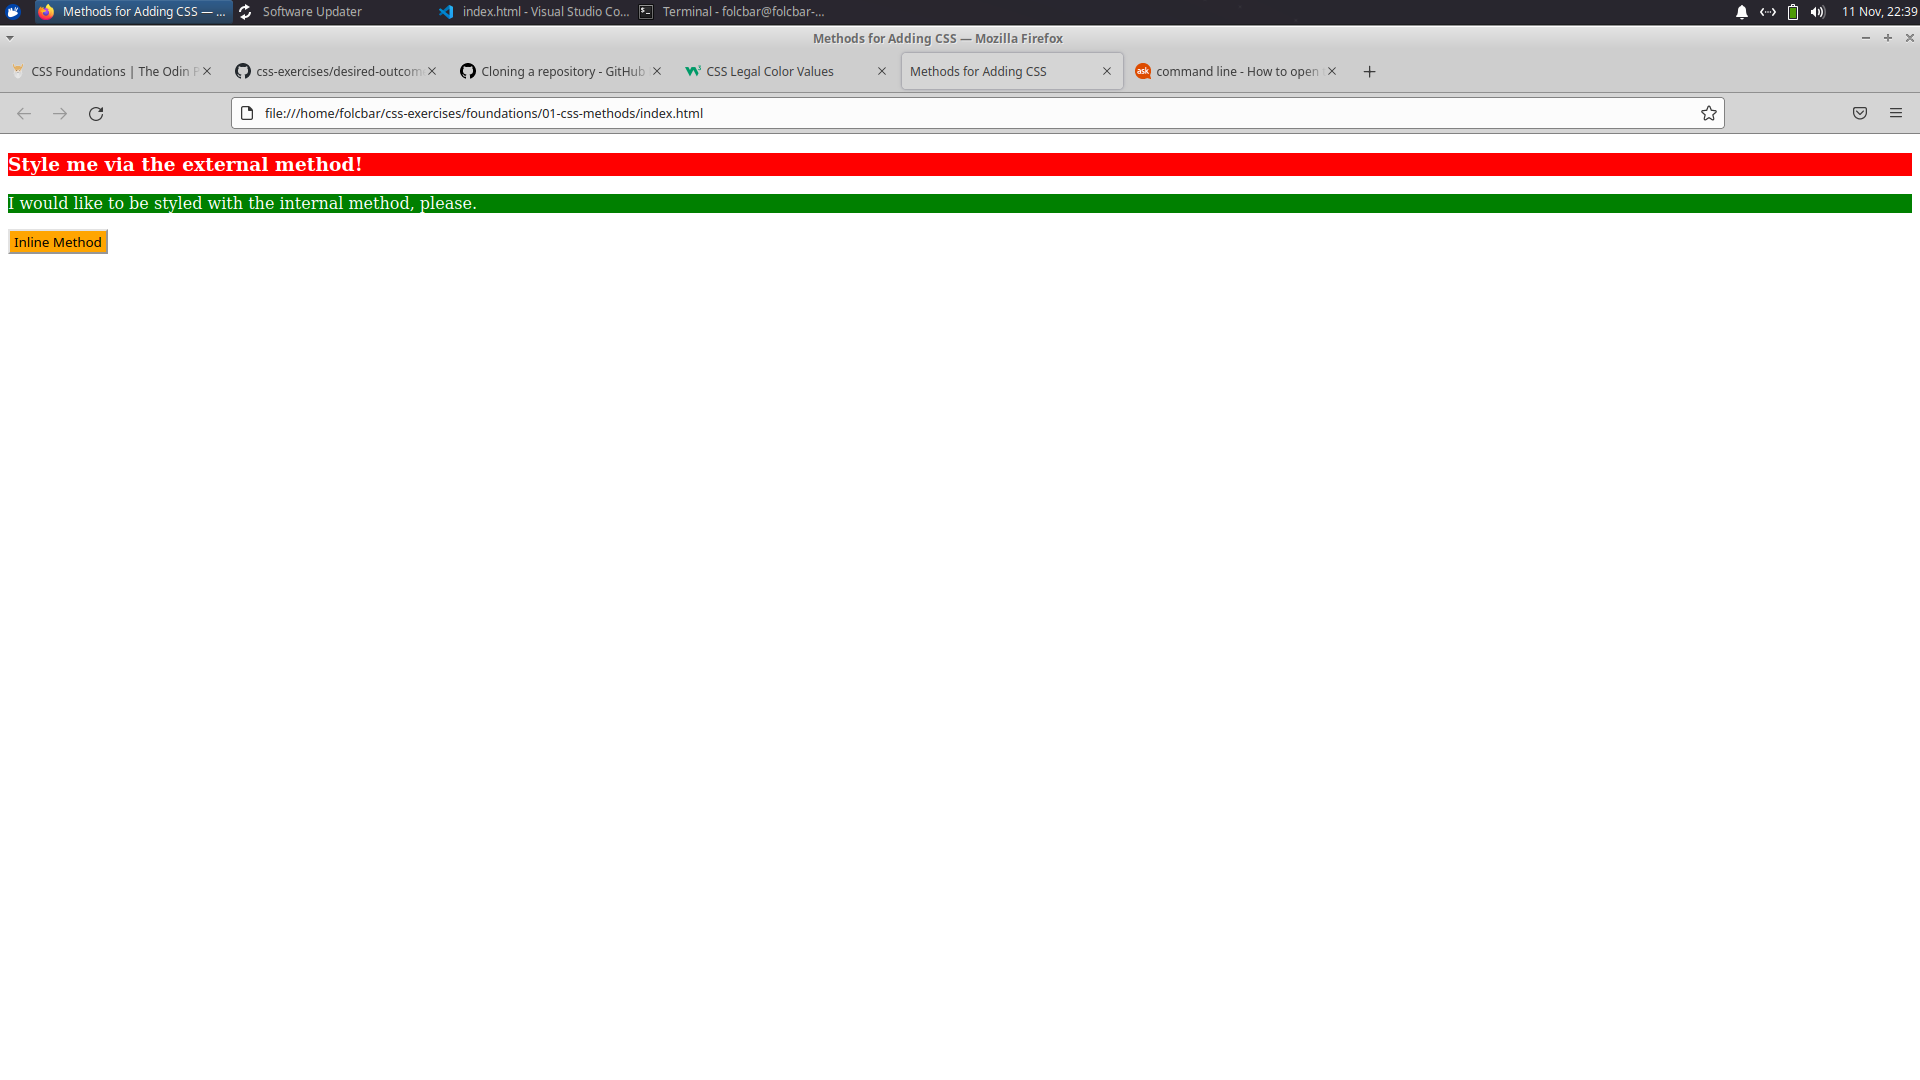
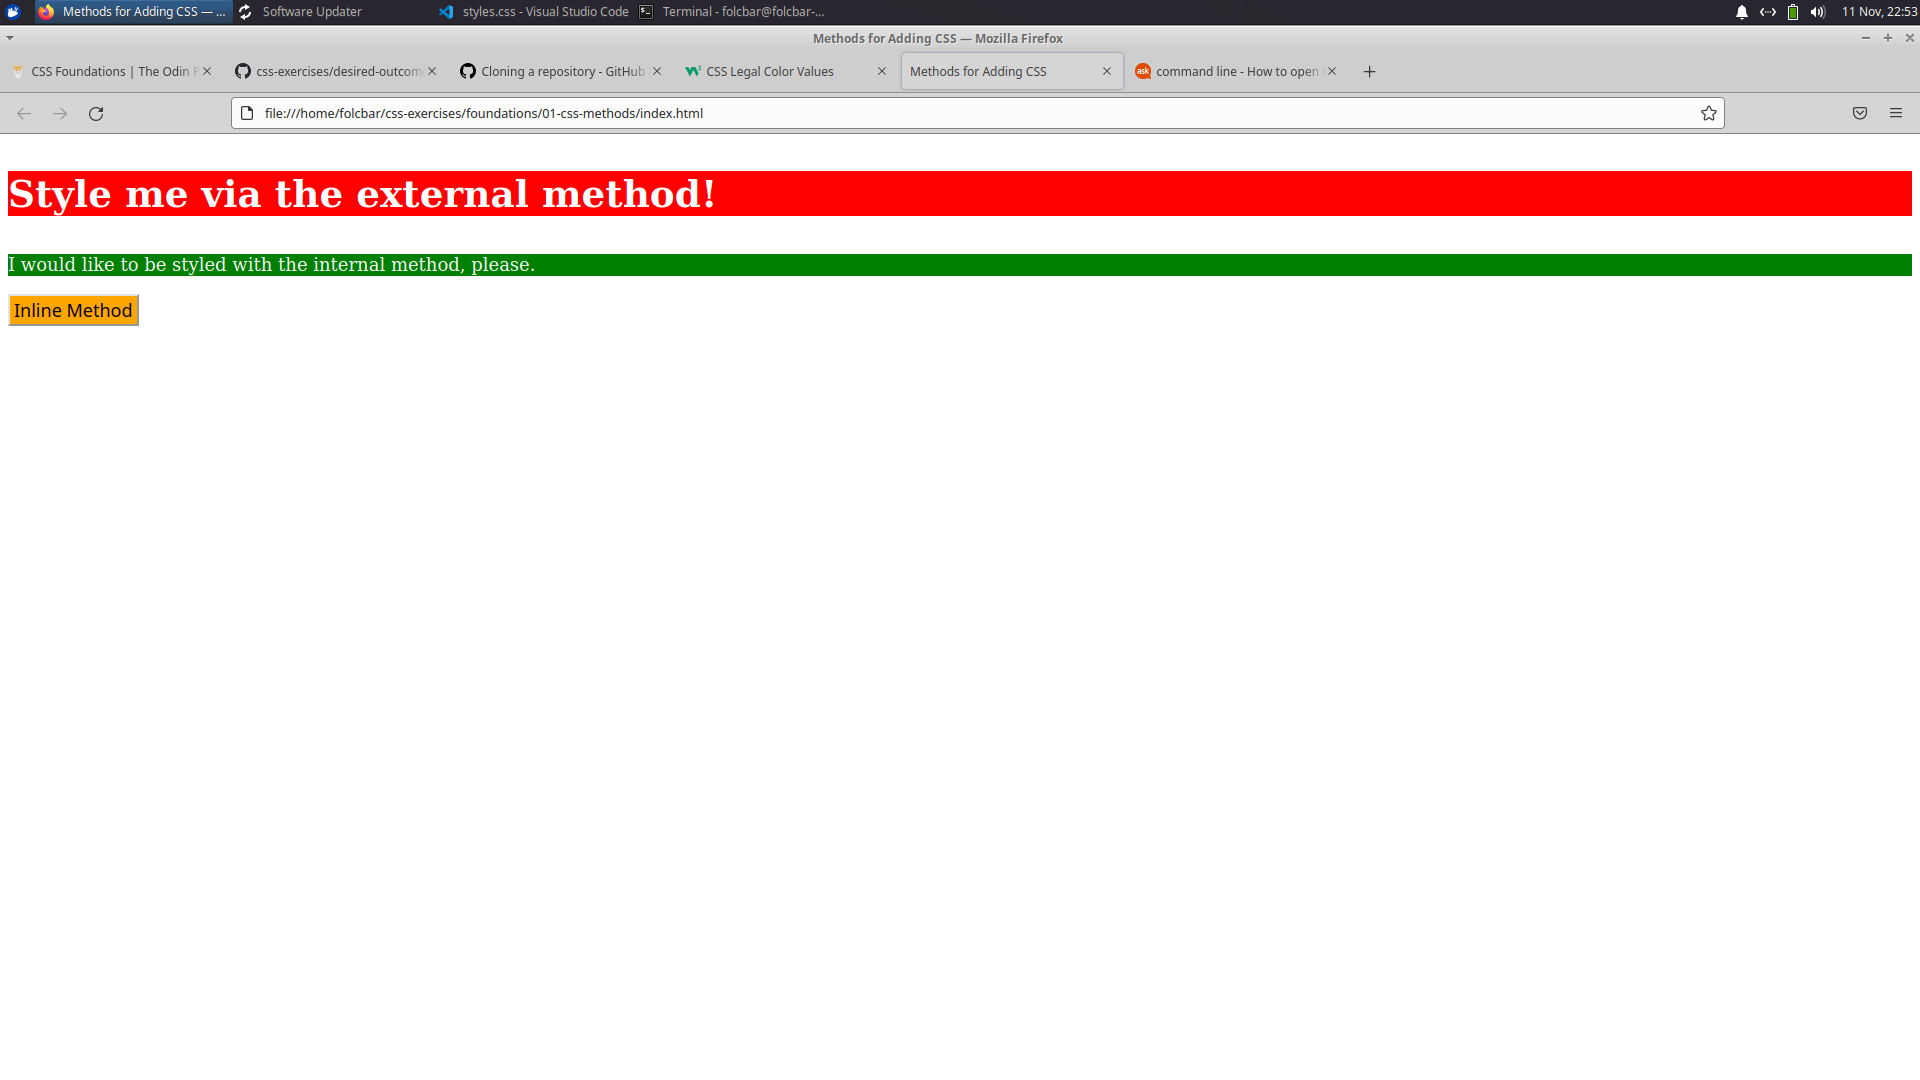
Made some changes to font size after viewing solutions and updated new-outcome.png

Changed region(s): [[0.0, 0.1222, 1.0, 0.3056], [0.25, 0.0, 0.3125, 0.0306]]

diff --git a/foundations/01-css-methods/index.html b/foundations/01-css-methods/index.html
@@ -10,12 +10,13 @@
     p {
       color: white;
       background-color: green;
+      font-size: 18px;
     }
   </style>
 </head>
 <body>
   <div><h3>Style me via the external method!</h3></div>
   <p>I would like to be styled with the internal method, please.</p>
-  <button style="color: black; background-color: orange;">Inline Method</button>
+  <button style="color: black; background-color: orange; font-size: 18px;">Inline Method</button>
 </body>
 </html>

diff --git a/foundations/01-css-methods/styles.css b/foundations/01-css-methods/styles.css
@@ -1,4 +1,5 @@
 div {
     color: white;
-    background-color: red;
+    background-color: rgb(255, 0, 0);
+    font-size: 32px;
 }
